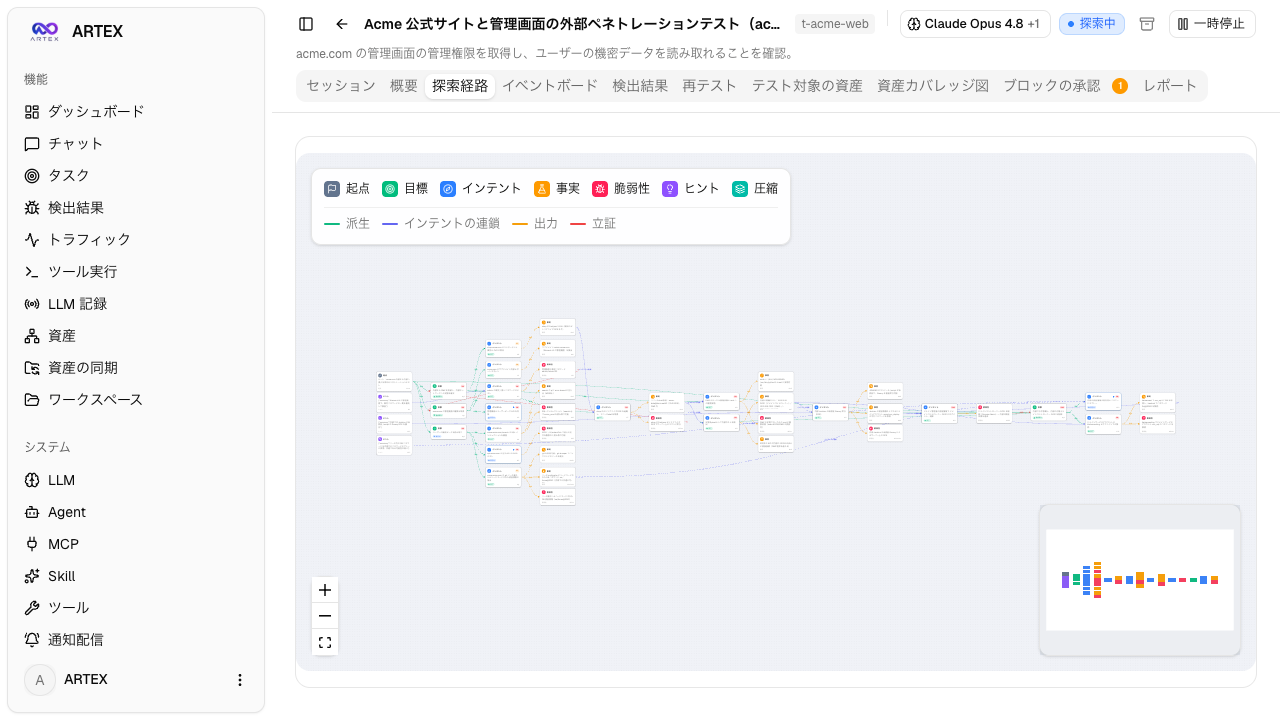
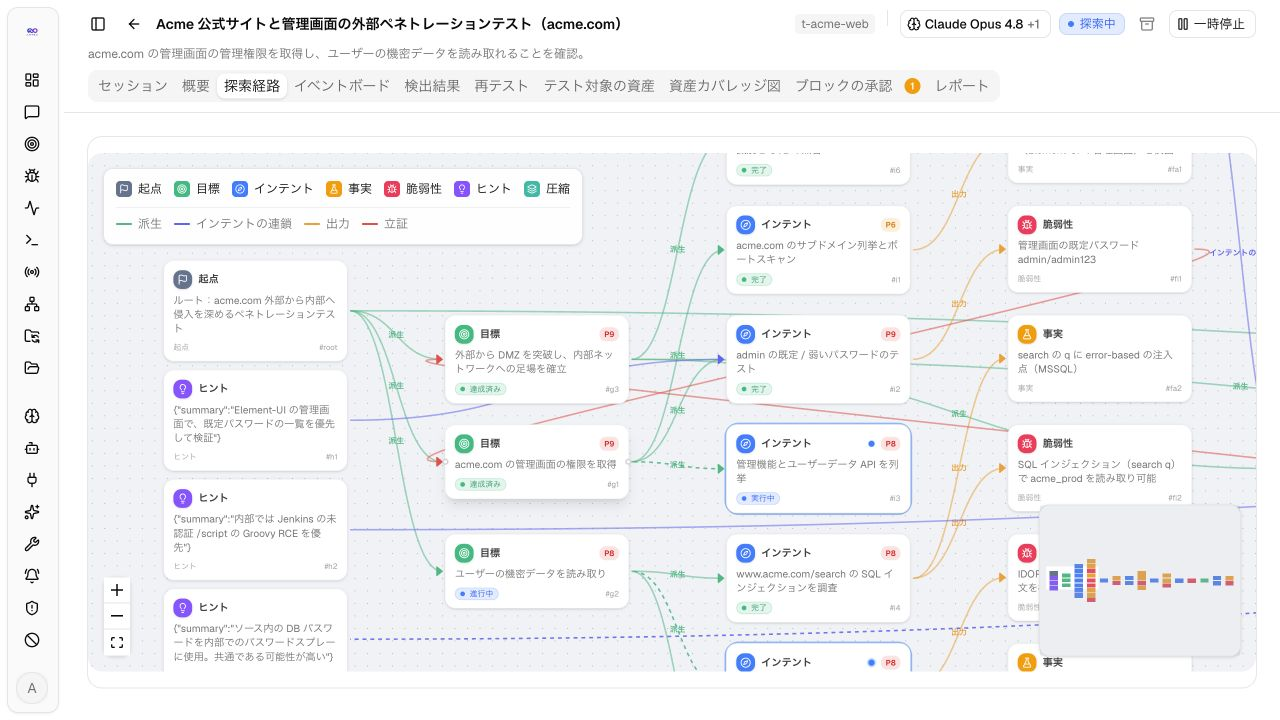
fix: 翻訳後のログ分類を維持し探索経路画像を更新

diff --git a/traffic/traffic.go b/traffic/traffic.go
@@ -689,7 +689,7 @@ func (t *Traffic) blobPath(hash string) (string, error) {
 	// Validated as pure hex before touching the filesystem, so a crafted hash can
 	// never traverse out of the blob directory.
 	if !blobHashRe.MatchString(hash) {
-		return "", fmt.Errorf("無効な blob hash")
+		return "", fmt.Errorf("不正な blob hash")
 	}
 	for _, p := range []string{
 		filepath.Join(t.dir, "_blobs", "sha256", hash[:2], hash+".bin"),
